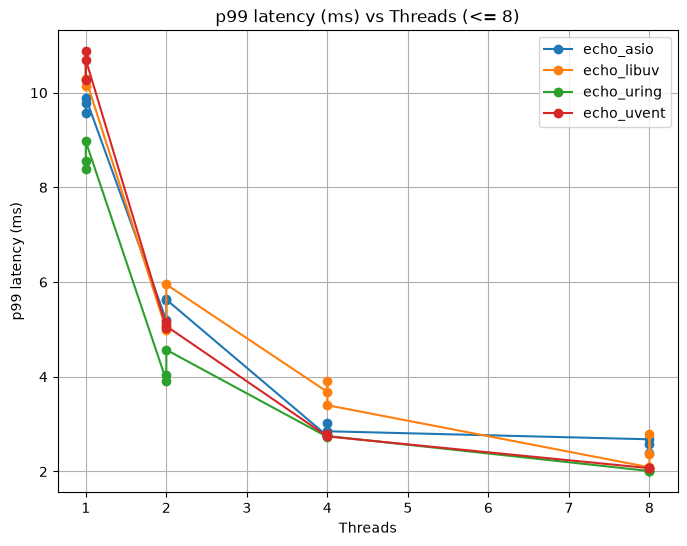
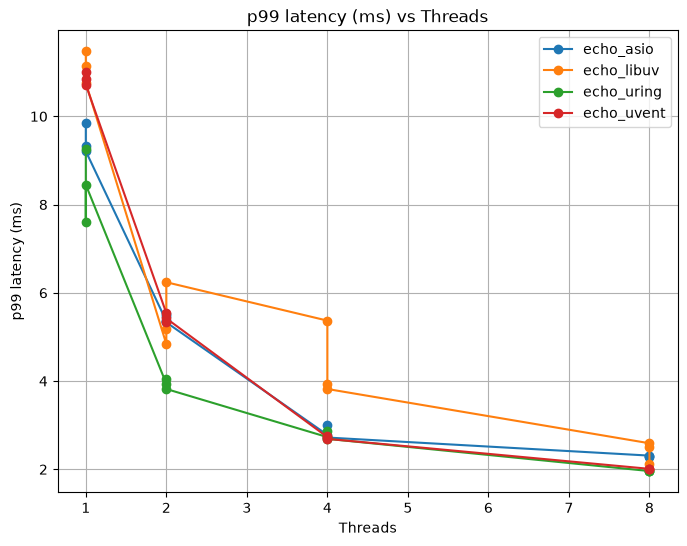
updated benchmark

diff --git a/README.md b/README.md
@@ -20,34 +20,35 @@ request — the numbers measure the event loop and syscall path, nothing else.
 
 | Threads | uvent (epoll) RPS | uvent (io_uring) RPS | Boost.Asio RPS | libuv RPS | uvent (epoll) p99 | uvent (io_uring) p99 | Boost.Asio p99 | libuv p99 |
 |--------:|------------------:|---------------------:|---------------:|----------:|------------------:|---------------------:|---------------:|----------:|
-|       1 |           116,340 |              142,127 |        122,468 |   116,672 |          10.70 ms |              8.55 ms |        9.78 ms |  10.28 ms |
-|       2 |           222,968 |              288,274 |        218,789 |   232,583 |           5.07 ms |              4.03 ms |        5.63 ms |   5.10 ms |
-|       4 |           365,004 |              363,870 |        365,665 |   350,512 |           2.74 ms |              2.75 ms |        2.85 ms |   3.68 ms |
-|       8 |           512,845 |              528,681 |        481,241 |   554,192 |           2.07 ms |              2.01 ms |        2.58 ms |   2.38 ms |
+|       1 |           112,594 |              149,538 |        124,480 |   112,182 |          10.86 ms |              8.44 ms |        9.46 ms |  11.13 ms |
+|       2 |           220,534 |              307,174 |        222,923 |   232,590 |           5.43 ms |              3.93 ms |        5.41 ms |   5.42 ms |
+|       4 |           370,127 |              364,552 |        373,909 |   356,399 |           2.73 ms |              2.76 ms |        2.84 ms |   4.38 ms |
+|       8 |           549,151 |              562,466 |        485,974 |   559,106 |           2.01 ms |              1.96 ms |        2.30 ms |   2.41 ms |
 
 ![Mean RPS vs threads](images/rps_mean.png)
 
 Host: 1× Intel Xeon E5-2640 v4 (10 cores / 20 threads, 2.4 GHz), Linux 6.8, GCC 13.3, `-O3 -march=native` + LTO;
-uvent (both backends from the same source), Boost 1.83, libuv 1.49.2, liburing 2.15.
+uvent 4.1.0 (both backends from the same source), Boost 1.83, libuv 1.49.2, liburing 2.15. Measured 2026-09-23.
 `wrk -t4 -c1000 -d30s --latency` (`-t8` for the 8-thread row), 3 s warm-up, server and `wrk` on the same host; for the
 1/2/4-thread rows wrk is pinned to cores 5–9/15–19 (`WRK_CPUS`), away from the workers and their SMT siblings; the
 8-thread row cannot be separated on 10 cores and runs with wrk free-floating.
-Every cell is the **median of 3 runs on an idle host**; run-to-run spread was within ±3 % for every cell, and no
-run had a single `wrk` timeout. Treat differences under ~3 % as noise.
+Every cell is the **median of 3 runs on an idle host** (Boost.Asio at 2 threads: median of 5, the very first run of
+the session – 186k RPS, p99 55 ms, no `wrk` errors – was discarded as a cold-start artefact); run-to-run spread was within
+±3 % for every cell and no run had a single `wrk` timeout. Treat differences under ~3 % as noise.
 The CSV behind the table is `images/summary_agg.csv`; raw `wrk` output stays in `results/` on the machine that ran it.
 
 Reading the table:
 
-- **1–2 threads: uvent + io_uring is the fastest server here** (142k / 288k RPS) — 16–32 % over Boost.Asio and
-  22–24 % over libuv, 22–29 % over its own `epoll` build. The io_uring backend batches submissions and completions
+- **1–2 threads: uvent + io_uring is the fastest server here** (150k / 307k RPS) – 20–38 % over Boost.Asio,
+  32–33 % over libuv and 33–39 % over its own `epoll` build. The io_uring backend batches submissions and completions
   and skips the speculative `recv()`/`epoll_wait` round trips the readiness-based loops pay per request.
-- **1–2 threads, `epoll` build:** level with libuv on one thread (116k vs 117k) and 5 % behind Asio; on two threads
-  it is ahead of Asio (223k vs 219k) and 4 % behind libuv. The kernel path is identical (one `recv`, one `send` per
-  request); the difference is a few hundred nanoseconds of user-space work per request — coroutine frames and the
+- **1–2 threads, `epoll` build:** level with libuv on one thread (113k vs 112k) and 10 % behind Asio; on two threads
+  it is level with Asio (221k vs 223k) and 5 % behind libuv. The kernel path is identical (one `recv`, one `send` per
+  request); the difference is a few hundred nanoseconds of user-space work per request – coroutine frames and the
   scheduler round trip, the price of `co_await`, not of the loop.
-- **4 threads:** all four are within 4 % (351–366k); the loop stops mattering once four cores are busy.
-- **8 threads** (where `wrk` competes for the same 10 cores): uvent io_uring, uvent epoll and libuv sit at 513–554k;
-  Asio's single shared `io_context` falls behind (481k) with a visibly worse p99.
+- **4 threads:** all four are within 5 % (356–374k); the loop stops mattering once four cores are busy.
+- **8 threads** (where `wrk` competes for the same 10 cores): uvent io_uring, libuv and uvent epoll sit at 549–562k;
+  Asio's single shared `io_context` falls behind (486k) with a visibly worse p99.
 
 Earlier versions of this repo showed libuv at a few hundred RPS. That was an artifact of the old single-loop
 `echo_libuv` and how it was run, not a property of libuv; the server has been rewritten (one loop per thread,
